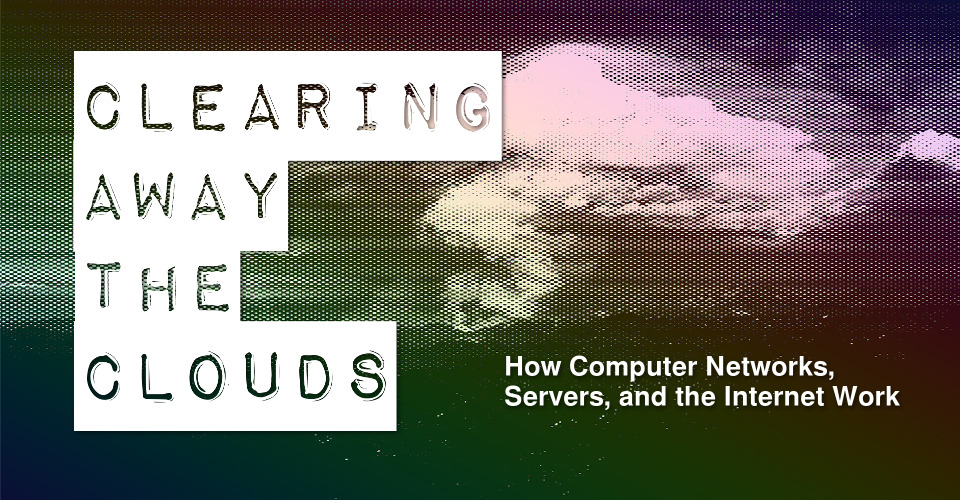
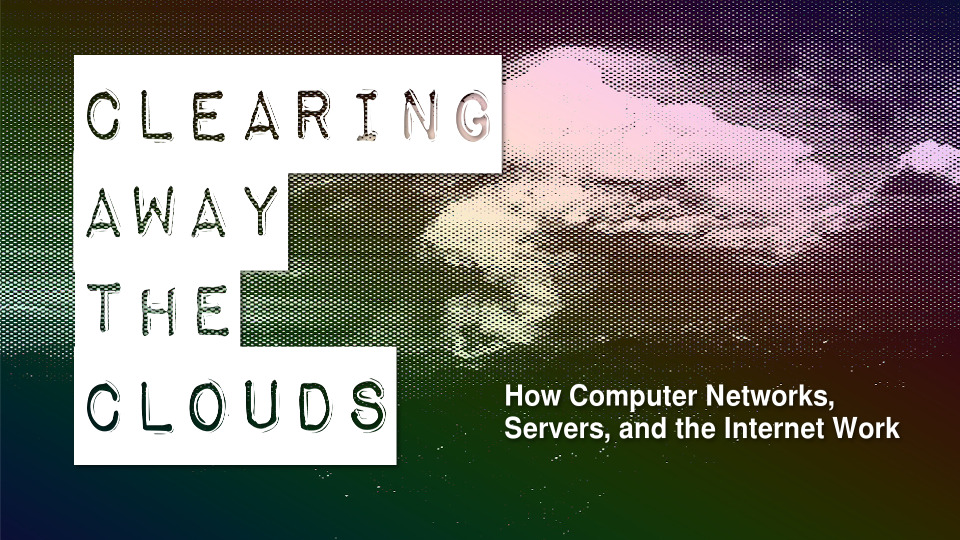
Fix sizes of workshop images, convert to JPG.

diff --git a/_events/workshop-2020-02-21-gone-phishing-how-to-recognize-fake-websites-and-other-online-scams.md b/_events/workshop-2020-02-21-gone-phishing-how-to-recognize-fake-websites-and-other-online-scams.md
@@ -6,7 +6,7 @@ date: *startDate
 location: Remote
 payment_processor: paypal
 webinar_id: 12
-image: static/images/workshop.gone-phishing-how-to-recognize-fake-websites-and-other-online-scams.blue.rectangle.png
+image: static/images/workshop.gone-phishing-how-to-recognize-fake-websites-and-other-online-scams.rectangle.jpg
 offers:
     - name: Privacy Defender Webinar Ticket
       description: Privacy Defender tickets are the recommended ticket type for those who can afford to help fund the digital security and online privacy advocacy communities with their financial resources, are attending the workshop with the support of their employers or other backers, or have other resources available to them. Purchasing tickets at this level makes it possible for us to offer reduced price tickets to those in need.

diff --git a/_events/workshop-2020-03-12-gone-phishing-how-to-recognize-fake-websites-and-other-online-scams.md b/_events/workshop-2020-03-12-gone-phishing-how-to-recognize-fake-websites-and-other-online-scams.md
@@ -6,7 +6,7 @@ date: *startDate
 location: Remote
 payment_processor: paypal
 webinar_id: 23
-image: static/images/workshop.gone-phishing-how-to-recognize-fake-websites-and-other-online-scams.blue.rectangle.png
+image: static/images/workshop.gone-phishing-how-to-recognize-fake-websites-and-other-online-scams.rectangle.jpg
 offers:
     - name: Privacy Defender Webinar Ticket
       description: Privacy Defender tickets are the recommended ticket type for those who can afford to help fund the digital security and online privacy advocacy communities with their financial resources, are attending the workshop with the support of their employers or other backers, or have other resources available to them. Purchasing tickets at this level makes it possible for us to offer reduced price tickets to those in need.

diff --git a/_events/workshop-2020-03-29-gone-phishing-how-to-recognize-fake-websites-and-other-online-scams.md b/_events/workshop-2020-03-29-gone-phishing-how-to-recognize-fake-websites-and-other-online-scams.md
@@ -6,7 +6,7 @@ date: *startDate
 location: Remote
 payment_processor: paypal
 webinar_id: 27
-image: static/images/workshop.gone-phishing-how-to-recognize-fake-websites-and-other-online-scams.blue.rectangle.png
+image: static/images/workshop.gone-phishing-how-to-recognize-fake-websites-and-other-online-scams.rectangle.jpg
 offers:
     - name: Privacy Defender Webinar Ticket
       description: Privacy Defender tickets are the recommended ticket type for those who can afford to help fund the digital security and online privacy advocacy communities with their financial resources, are attending the workshop with the support of their employers or other backers, or have other resources available to them. Purchasing tickets at this level makes it possible for us to offer reduced price tickets to those in need.

diff --git a/_events/workshop-2020-04-28-gone-phishing-how-to-recognize-fake-websites-and-other-online-scams.md b/_events/workshop-2020-04-28-gone-phishing-how-to-recognize-fake-websites-and-other-online-scams.md
@@ -6,7 +6,7 @@ date: *startDate
 location: Remote
 payment_processor: paypal
 webinar_id: 40
-image: static/images/workshop.gone-phishing-how-to-recognize-fake-websites-and-other-online-scams.blue.rectangle.png
+image: static/images/workshop.gone-phishing-how-to-recognize-fake-websites-and-other-online-scams.rectangle.jpg
 offers:
     - name: Privacy Defender Webinar Ticket
       description: Privacy Defender tickets are the recommended ticket type for those who can afford to help fund the digital security and online privacy advocacy communities with their financial resources, are attending the workshop with the support of their employers or other backers, or have other resources available to them. Purchasing tickets at this level makes it possible for us to offer reduced price tickets to those in need.

diff --git a/_events/workshop-2020-06-07-gone-phishing-how-to-recognize-fake-websites-and-other-online-scams.md b/_events/workshop-2020-06-07-gone-phishing-how-to-recognize-fake-websites-and-other-online-scams.md
@@ -6,7 +6,7 @@ date: *startDate
 location: Remote
 payment_processor: paypal
 webinar_id: 56
-image: static/images/workshop.gone-phishing-how-to-recognize-fake-websites-and-other-online-scams.blue.rectangle.png
+image: static/images/workshop.gone-phishing-how-to-recognize-fake-websites-and-other-online-scams.rectangle.jpg
 offers:
     - name: Privacy Defender Webinar Ticket
       description: Privacy Defender tickets are the recommended ticket type for those who can afford to help fund the digital security and online privacy advocacy communities with their financial resources, are attending the workshop with the support of their employers or other backers, or have other resources available to them. Purchasing tickets at this level makes it possible for us to offer reduced price tickets to those in need.

diff --git a/_events/workshop-2020-05-17-world-wide-wars-introduction-to-exploiting-web-applications.md b/_events/workshop-2020-05-17-world-wide-wars-introduction-to-exploiting-web-applications.md
@@ -6,7 +6,7 @@ date: *startDate
 location: Remote
 payment_processor: paypal
 webinar_id: 48
-image: static/images/workshop.world-wide-wars-introduction-to-exploiting-web-applications.rectangle.png
+image: static/images/workshop.world-wide-wars-introduction-to-exploiting-web-applications.rectangle.jpg
 offers:
     - name: Privacy Defender Webinar Ticket
       description: Privacy Defender tickets are the recommended ticket type for those who can afford to help fund the digital security and online privacy advocacy communities with their financial resources, are attending the workshop with the support of their employers or other backers, or have other resources available to them. Purchasing tickets at this level makes it possible for us to offer reduced price tickets to those in need.

diff --git a/_events/workshop-2020-06-16-world-wide-wars-introduction-to-exploiting-web-applications.md b/_events/workshop-2020-06-16-world-wide-wars-introduction-to-exploiting-web-applications.md
@@ -6,7 +6,7 @@ date: *startDate
 location: Remote
 payment_processor: paypal
 webinar_id: 59
-image: static/images/workshop.world-wide-wars-introduction-to-exploiting-web-applications.rectangle.png
+image: static/images/workshop.world-wide-wars-introduction-to-exploiting-web-applications.rectangle.jpg
 offers:
     - name: Privacy Defender Webinar Ticket
       description: Privacy Defender tickets are the recommended ticket type for those who can afford to help fund the digital security and online privacy advocacy communities with their financial resources, are attending the workshop with the support of their employers or other backers, or have other resources available to them. Purchasing tickets at this level makes it possible for us to offer reduced price tickets to those in need.

diff --git a/_events/workshop-2020-02-22-tor-what-is-it-good-for-absolutely-everything.md b/_events/workshop-2020-02-22-tor-what-is-it-good-for-absolutely-everything.md
@@ -6,7 +6,7 @@ date: *startDate
 location: Remote
 payment_processor: paypal
 webinar_id: 14
-image: static/images/workshop.tor-what-is-it-good-for-absolutely-everything.rectangle.png
+image: static/images/workshop.tor-what-is-it-good-for-absolutely-everything.rectangle.jpg
 offers:
     - name: Privacy Defender Webinar Ticket
       description: Privacy Defender tickets are the recommended ticket type for those who can afford to help fund the digital security and online privacy advocacy communities with their financial resources, are attending the workshop with the support of their employers or other backers, or have other resources available to them. Purchasing tickets at this level makes it possible for us to offer reduced price tickets to those in need.

diff --git a/_events/workshop-2020-03-15-tor-what-is-it-good-for-absolutely-everything.md b/_events/workshop-2020-03-15-tor-what-is-it-good-for-absolutely-everything.md
@@ -6,7 +6,7 @@ date: *startDate
 location: Remote
 payment_processor: paypal
 webinar_id: 21
-image: static/images/workshop.tor-what-is-it-good-for-absolutely-everything.rectangle.png
+image: static/images/workshop.tor-what-is-it-good-for-absolutely-everything.rectangle.jpg
 offers:
     - name: Privacy Defender Webinar Ticket
       description: Privacy Defender tickets are the recommended ticket type for those who can afford to help fund the digital security and online privacy advocacy communities with their financial resources, are attending the workshop with the support of their employers or other backers, or have other resources available to them. Purchasing tickets at this level makes it possible for us to offer reduced price tickets to those in need.

diff --git a/_events/workshop-2020-03-26-tor-what-is-it-good-for-absolutely-everything.md b/_events/workshop-2020-03-26-tor-what-is-it-good-for-absolutely-everything.md
@@ -6,7 +6,7 @@ date: *startDate
 location: Remote
 payment_processor: paypal
 webinar_id: 26
-image: static/images/workshop.tor-what-is-it-good-for-absolutely-everything.rectangle.png
+image: static/images/workshop.tor-what-is-it-good-for-absolutely-everything.rectangle.jpg
 offers:
     - name: Privacy Defender Webinar Ticket
       description: Privacy Defender tickets are the recommended ticket type for those who can afford to help fund the digital security and online privacy advocacy communities with their financial resources, are attending the workshop with the support of their employers or other backers, or have other resources available to them. Purchasing tickets at this level makes it possible for us to offer reduced price tickets to those in need.

diff --git a/_events/workshop-2020-04-05-tor-what-is-it-good-for-absolutely-everything.md b/_events/workshop-2020-04-05-tor-what-is-it-good-for-absolutely-everything.md
@@ -6,7 +6,7 @@ date: *startDate
 location: Remote
 payment_processor: paypal
 webinar_id: 29
-image: static/images/workshop.tor-what-is-it-good-for-absolutely-everything.rectangle.png
+image: static/images/workshop.tor-what-is-it-good-for-absolutely-everything.rectangle.jpg
 offers:
     - name: Privacy Defender Webinar Ticket
       description: Privacy Defender tickets are the recommended ticket type for those who can afford to help fund the digital security and online privacy advocacy communities with their financial resources, are attending the workshop with the support of their employers or other backers, or have other resources available to them. Purchasing tickets at this level makes it possible for us to offer reduced price tickets to those in need.

diff --git a/_events/workshop-2020-04-25-tor-what-is-it-good-for-absolutely-everything.md b/_events/workshop-2020-04-25-tor-what-is-it-good-for-absolutely-everything.md
@@ -6,7 +6,7 @@ date: *startDate
 location: Remote
 payment_processor: paypal
 webinar_id: 39
-image: static/images/workshop.tor-what-is-it-good-for-absolutely-everything.rectangle.png
+image: static/images/workshop.tor-what-is-it-good-for-absolutely-everything.rectangle.jpg
 offers:
     - name: Privacy Defender Webinar Ticket
       description: Privacy Defender tickets are the recommended ticket type for those who can afford to help fund the digital security and online privacy advocacy communities with their financial resources, are attending the workshop with the support of their employers or other backers, or have other resources available to them. Purchasing tickets at this level makes it possible for us to offer reduced price tickets to those in need.
